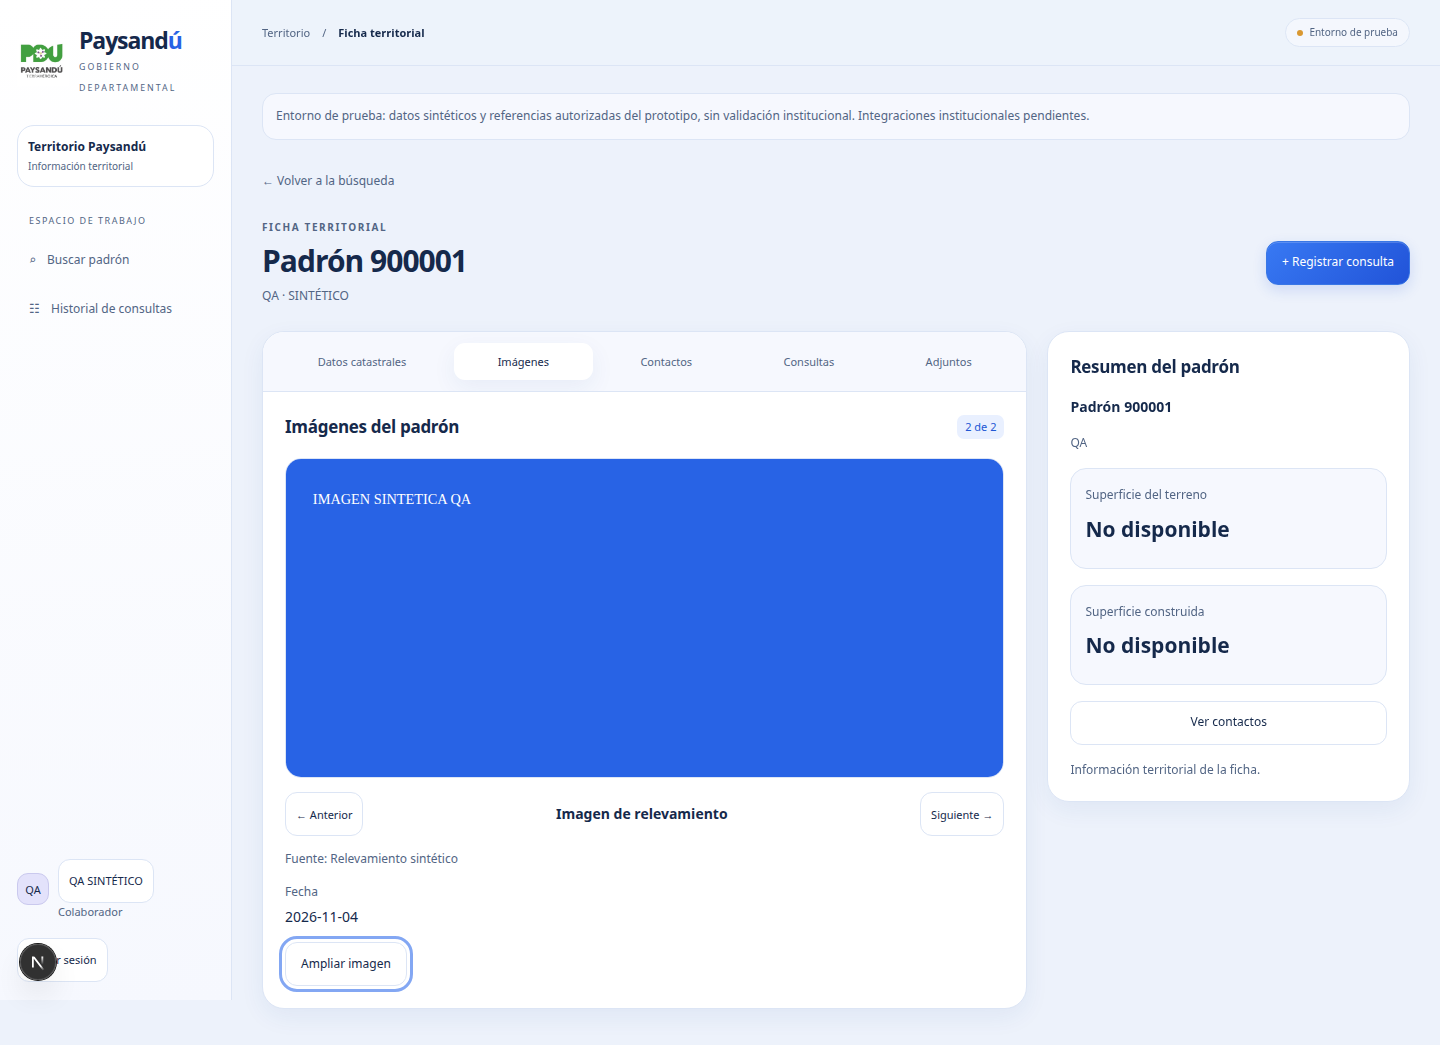
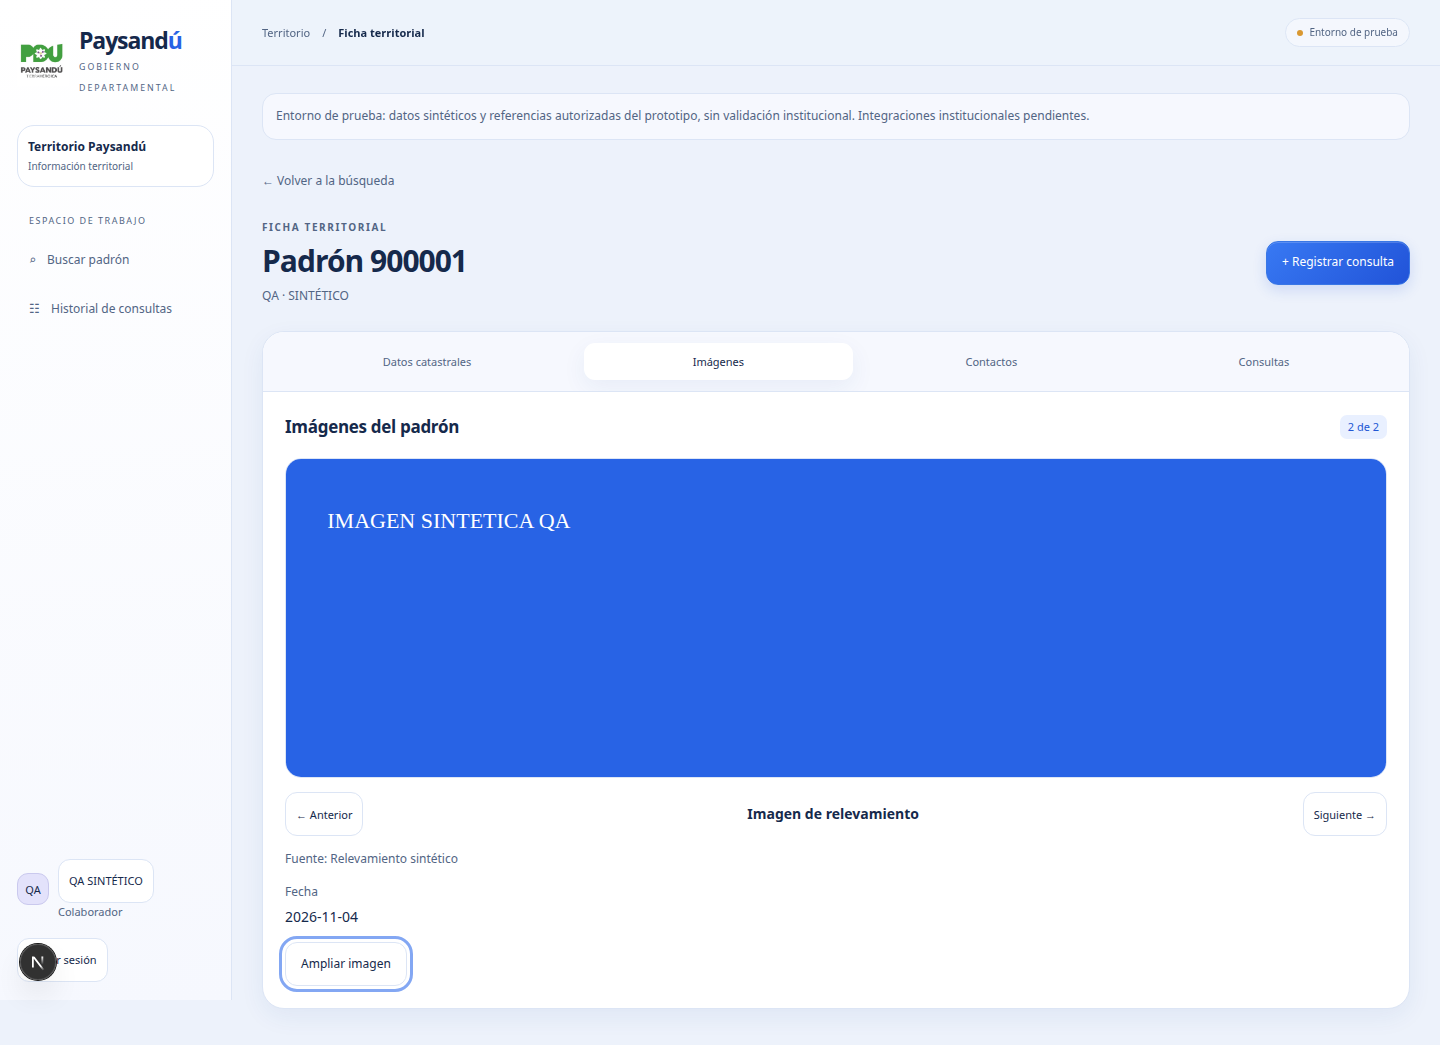
Simplify parcel view while preserving cadastral surface values

diff --git a/src/components/parcel-view.tsx b/src/components/parcel-view.tsx
@@ -2,14 +2,12 @@
 import { useRef, useState, type KeyboardEvent } from "react";
 import { HistoryView, type HistoryReturnState } from "./territory-app";
 import type { Parcel, ParcelImage } from "./contracts";
-export type ParcelTab =
-  "record" | "images" | "contacts" | "consultations" | "attachments";
+export type ParcelTab = "record" | "images" | "contacts" | "consultations";
 const parcelTabs: { key: ParcelTab; label: string }[] = [
   { key: "record", label: "Datos catastrales" },
   { key: "images", label: "Imágenes" },
   { key: "contacts", label: "Contactos" },
   { key: "consultations", label: "Consultas" },
-  { key: "attachments", label: "Adjuntos" },
 ];
 export function ParcelView({
   parcel,
@@ -121,6 +119,36 @@ export function ParcelView({
                     <dt>Domicilio</dt>
                     <dd>{parcel.address}</dd>
                   </div>
+                  {[
+                    {
+                      label: "Superficie de terreno",
+                      original: "Terreno (texto original)",
+                      value: parcel.originalLandArea,
+                    },
+                    {
+                      label: "Superficie construida",
+                      original: "Construida (texto original)",
+                      value: parcel.originalBuiltArea,
+                    },
+                    {
+                      label: "Superficie detectada",
+                      original: "Detectada (texto original)",
+                      value: parcel.detectedBuiltArea,
+                    },
+                  ]
+                    .filter(
+                      ({ original }) => !(original in (parcel.fields ?? {})),
+                    )
+                    .map(({ label, value }) => (
+                      <div key={label}>
+                        <dt>{label}</dt>
+                        <dd>
+                          {value == null
+                            ? "No disponible"
+                            : `${value.toLocaleString("es-UY")} m²`}
+                        </dd>
+                      </div>
+                    ))}
                   {Object.entries(parcel.fields ?? {})
                     .filter(
                       ([label]) => !/^(Teléfono|Correo|Vínculo)/.test(label),
@@ -132,35 +160,6 @@ export function ParcelView({
                       </div>
                     ))}
                 </dl>
-                <div className="surface-grid">
-                  <Surface
-                    label="Superficie de terreno"
-                    value={parcel.originalLandArea}
-                    source={
-                      parcel.provenance
-                        ? "Prototipo · No verificado"
-                        : "Original · Catastro"
-                    }
-                  />
-                  <Surface
-                    label="Superficie construida"
-                    value={parcel.originalBuiltArea}
-                    source={
-                      parcel.provenance
-                        ? "Prototipo · No verificado"
-                        : "Original · Catastro"
-                    }
-                  />
-                  <Surface
-                    label="Superficie detectada"
-                    value={parcel.detectedBuiltArea}
-                    source={
-                      parcel.provenance
-                        ? "Prototipo · No verificado"
-                        : "Relevamiento"
-                    }
-                  />
-                </div>
               </section>
             )}
             {tab === "images" && <ImageViewer images={parcel.images} />}
@@ -246,67 +245,10 @@ export function ParcelView({
                 />
               </div>
             )}
-            {tab === "attachments" && (
-              <section className="empty">
-                <h2>Archivos adjuntos</h2>
-                <p>
-                  La carga y descarga de adjuntos todavía no está habilitada en
-                  esta versión de prueba.
-                </p>
-              </section>
-            )}
           </div>
         </section>
-        <aside className="panel parcel-summary">
-          <h2>Resumen del padrón</h2>
-          <h3>Padrón {parcel.parcel}</h3>
-          <p className="muted">{parcel.locality}</p>
-          <Surface
-            label="Superficie del terreno"
-            value={parcel.originalLandArea}
-            source=""
-          />
-          <Surface
-            label="Superficie construida"
-            value={parcel.originalBuiltArea}
-            source=""
-          />
-          <button
-            className="btn"
-            onClick={() => {
-              setTab("contacts");
-              onTabChange?.("contacts");
-            }}
-          >
-            Ver contactos
-          </button>
-          <p className="meta">
-            {parcel.provenance ?? "Información territorial de la ficha."}
-          </p>
-        </aside>
       </div>
     </>
-  );
-}
-function Surface({
-  label,
-  value,
-  source,
-}: {
-  label: string;
-  value?: number | null;
-  source: string;
-}) {
-  return (
-    <div className="surface">
-      <small>{label}</small>
-      <strong>
-        {value == null
-          ? "No disponible"
-          : `${value.toLocaleString("es-UY")} m²`}
-      </strong>
-      <span className="meta">{source}</span>
-    </div>
   );
 }
 function trapViewerFocus(event: KeyboardEvent<HTMLDialogElement>) {

diff --git a/src/app/globals.css b/src/app/globals.css
@@ -969,7 +969,7 @@ td {
 }
 .parcel-detail-grid {
   display: grid;
-  grid-template-columns: minmax(0, 1.9fr) minmax(255px, 0.9fr);
+  grid-template-columns: minmax(0, 1fr);
   gap: 20px;
   align-items: start;
 }
@@ -997,18 +997,9 @@ td {
   box-shadow: none;
   border-radius: 0;
 }
-.parcel-summary {
-  position: sticky;
-  top: 86px;
-  display: grid;
-  gap: 16px;
-}
 @media (max-width: 1000px) {
   .parcel-detail-grid {
     grid-template-columns: 1fr;
-  }
-  .parcel-summary {
-    position: static;
   }
 }
 @media (max-width: 550px) {

diff --git a/docs/evidence/parcel-simplification.md b/docs/evidence/parcel-simplification.md
@@ -1,0 +1,13 @@
+# Independent QA — simplified parcel view
+
+2026-11-04, local port 3037, synthetic intercepted API only. PASS.
+
+Updated and executed `tests/qa/storage-viewer-fixture.mjs` after the requested removals. Exactly four tabs remain: Datos catastrales, Imágenes, Contactos and Consultas. Adjuntos, the summary sidebar/heading and surface cards are absent. The record panel spans the full detail-grid width.
+
+Verified keyboard ArrowLeft/Right wraparound, Home/End, selection/focus, one relevant tabpanel and no document overflow at 1440, 390 and 320 pixels. Screenshots reviewed: `four-tabs-record-1440-synthetic.png` and `four-tabs-record-390-synthetic.png`.
+
+Data preservation: ordinary definition-list fields retain land area 125.5 rendered as 125,5 m², built area zero rendered as 0 m², and missing detected area as No disponible. A second fixture supplies the three original area text fields; each original string appears exactly once and the derived surface fields are omitted. No original values are replaced or guessed.
+
+Image regression remains PASS: historical and survey synthetic images decode with positive naturalWidth; injected 503 exposes retry and recovery decodes; zoom125%, carousel reset, Escape/focus restoration, historical metadata suppression and survey metadata display pass. Registrar consulta stays enabled and Tasa stays absent. No page errors.
+
+Limit: local fixtures do not establish remote Storage availability, authenticated download or checksum. No cloud action, deployment, app-source edit, commit or push was performed by this reviewer. This report supersedes the earlier five-tab layout expectation only.
